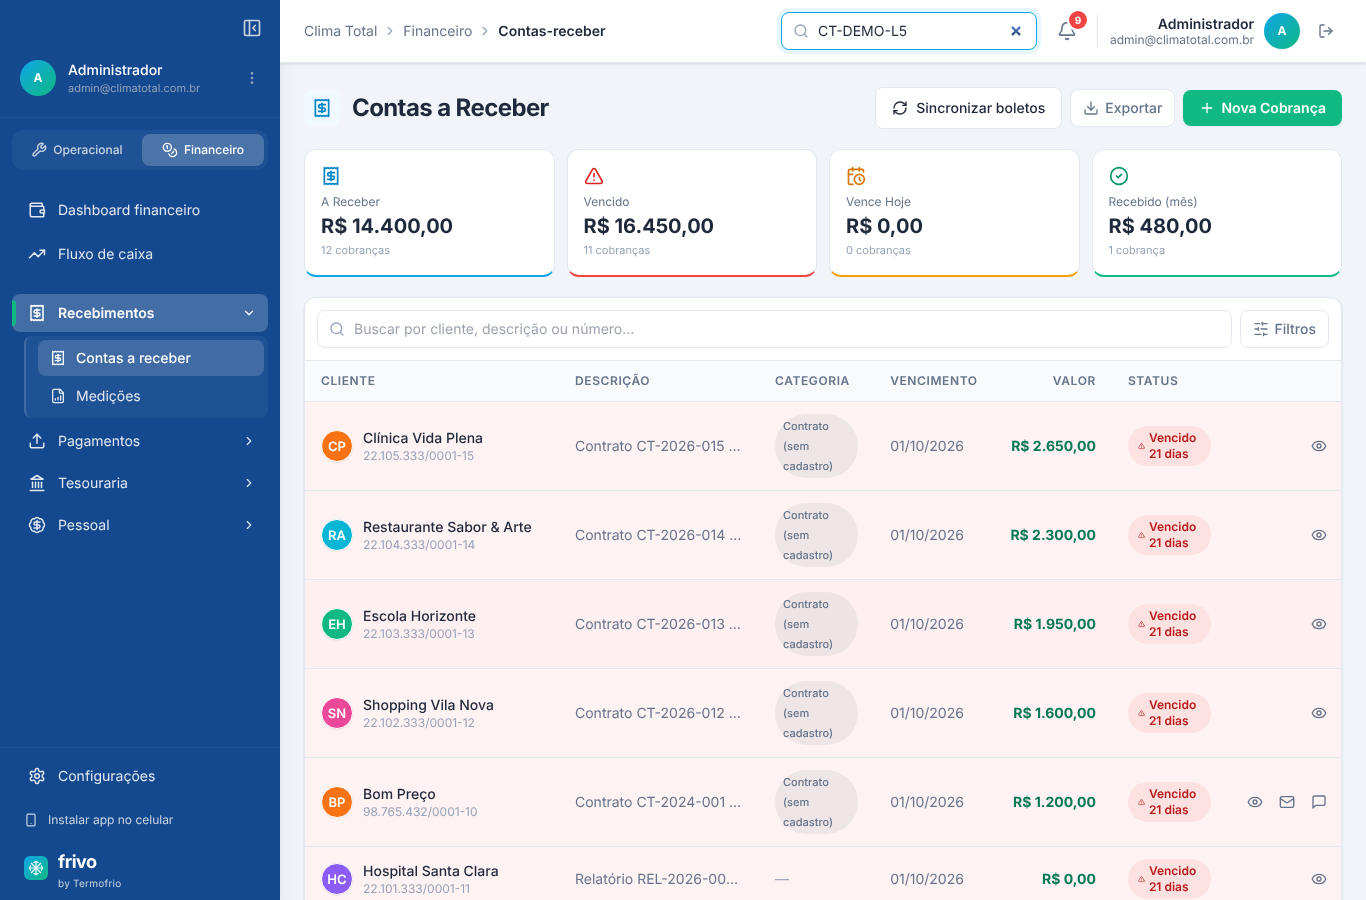
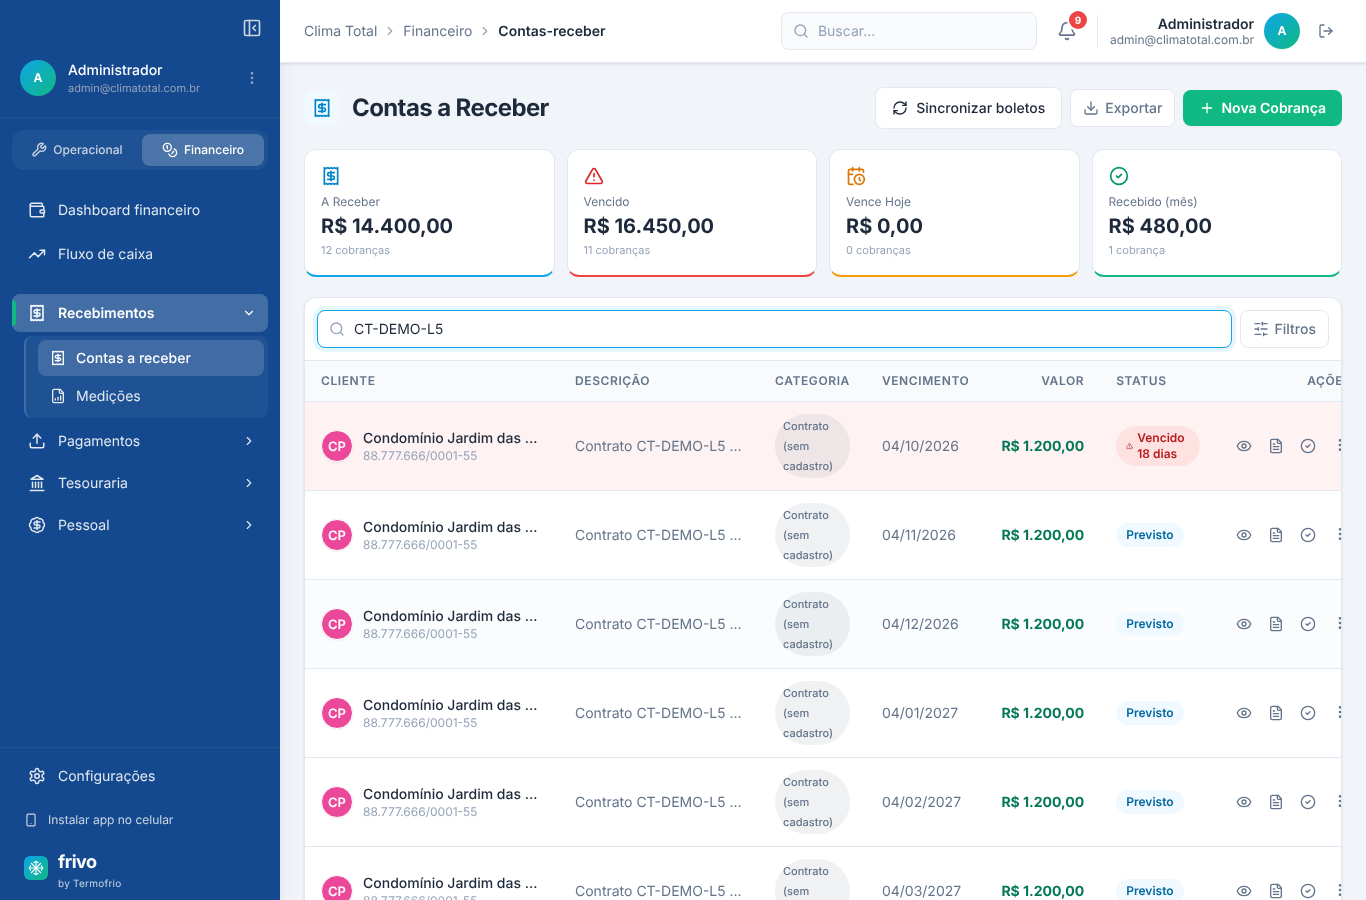
Leva 5: regra única de ATRASADO (marcarContasReceberVencidas) — página e dashboard
A lista de Contas a Receber também marcava PREVISTO vencida como ATRASADO por fora;
agora os dois caminhos usam o mesmo helper, que só atrasa conta LIBERADA (A_RECEBER).

Claude-Session: https://claude.ai/code/session_01NogQSnn1DhMU16avoGcmWJ

diff --git a/lib/financeiro-server.ts b/lib/financeiro-server.ts
@@ -465,6 +465,20 @@ export async function gerarContaPagarDoPedido(pedidoCompraId: string) {
 // DASHBOARD FINANCEIRO
 // ─────────────────────────────────────────────
 
+/**
+ * Marca como ATRASADO as contas a receber LIBERADAS (A_RECEBER) vencidas. PREVISTO não
+ * vira ATRASADO (C6/F5): previsão de contrato ainda não faturada não é cobrança vencida —
+ * era isso que marcava o cliente como inadimplente e enchia o portal de "boletos vencidos".
+ * Único lugar da regra: dashboard e lista usam esta função.
+ */
+export async function marcarContasReceberVencidas(empresaId: string) {
+  const hoje = new Date(); hoje.setHours(0, 0, 0, 0);
+  return prisma.contaReceber.updateMany({
+    where: { empresaId, status: "A_RECEBER", dataVencimento: { lt: hoje } },
+    data: { status: "ATRASADO" },
+  });
+}
+
 /** Agregações para o dashboard financeiro: cards do mês, série de 6 meses e alertas. */
 export async function resumoFinanceiro(empresaId: string) {
   const agora = new Date();
@@ -474,13 +488,8 @@ export async function resumoFinanceiro(empresaId: string) {
   const hojeFim = new Date(agora.getFullYear(), agora.getMonth(), agora.getDate(), 23, 59, 59, 999);
   const tresDias = new Date(hojeIni.getTime() - 3 * 86400000);
 
-  // Marca contas vencidas (receber e pagar). PREVISTO não vira ATRASADO: previsão de
-  // contrato ainda não faturada não é cobrança vencida (C6/F5 — era isso que marcava o
-  // cliente como inadimplente e enchia o portal de "boletos vencidos" fantasmas).
-  await prisma.contaReceber.updateMany({
-    where: { empresaId, status: "A_RECEBER", dataVencimento: { lt: hojeIni } },
-    data: { status: "ATRASADO" },
-  });
+  // Marca contas vencidas (receber e pagar)
+  await marcarContasReceberVencidas(empresaId);
   await prisma.contaPagar.updateMany({
     where: { empresaId, status: "PENDENTE", dataVencimento: { lt: hojeIni } },
     data: { status: "VENCIDO" },

diff --git a/app/(dashboard)/financeiro/contas-receber/page.tsx b/app/(dashboard)/financeiro/contas-receber/page.tsx
@@ -3,6 +3,7 @@ import { auth } from "@/lib/auth";
 import { pode } from "@/lib/permissoes";
 import { redirect } from "next/navigation";
 import { prisma } from "@/lib/prisma";
+import { marcarContasReceberVencidas } from "@/lib/financeiro-server";
 import { ContasReceberView, type ContaView } from "@/components/financeiro/contas-receber-view";
 
 export const metadata: Metadata = { title: "Contas a Receber" };
@@ -17,12 +18,8 @@ export default async function ContasReceberPage({
   if (!pode(session!.user!.permissoes, "financeiro", "contasReceber", session!.user!.role)) redirect("/sem-permissao");
   const empresaId = session!.user!.empresaId;
 
-  const hoje = new Date();
-  hoje.setHours(0, 0, 0, 0);
-  await prisma.contaReceber.updateMany({
-    where: { empresaId, status: { in: ["PREVISTO", "A_RECEBER"] }, dataVencimento: { lt: hoje } },
-    data: { status: "ATRASADO" },
-  });
+  // PREVISTO não vira ATRASADO (C6/F5) — regra única em marcarContasReceberVencidas
+  await marcarContasReceberVencidas(empresaId);
 
   const [contas, clientes, categorias, integracao] = await Promise.all([
     prisma.contaReceber.findMany({

diff --git a/tests/unit/leva5-contrato.test.ts b/tests/unit/leva5-contrato.test.ts
@@ -342,9 +342,9 @@ describe.skipIf(!URL_PG)("Leva 5 — contrato × previsão × medição (Postgre
       mes: MES, ano: ANO, status: "PC_RECEBIDO", valorTotal: 999, valorLiquido: 999, tokenPublico: crypto.randomUUID(),
     } });
     const conta = await gerarContaReceberDaMedicao(medicao.id);
-    expect(conta.contratoId).toBe(ct.id);
+    expect(conta?.contratoId).toBe(ct.id);
     expect(await prisma.contaReceber.count({ where: { contratoId: ct.id, refMes: MES, refAno: ANO } })).toBe(1);
-    expect((await prisma.contaReceber.findFirst({ where: { contratoId: ct.id, refMes: MES, refAno: ANO } })).medicaoId).toBe(medicao.id);
+    expect((await prisma.contaReceber.findFirst({ where: { contratoId: ct.id, refMes: MES, refAno: ANO } }))?.medicaoId).toBe(medicao.id);
   });
 
   // ═══════════ D1 — relatório mensal consolidado ═══════════
